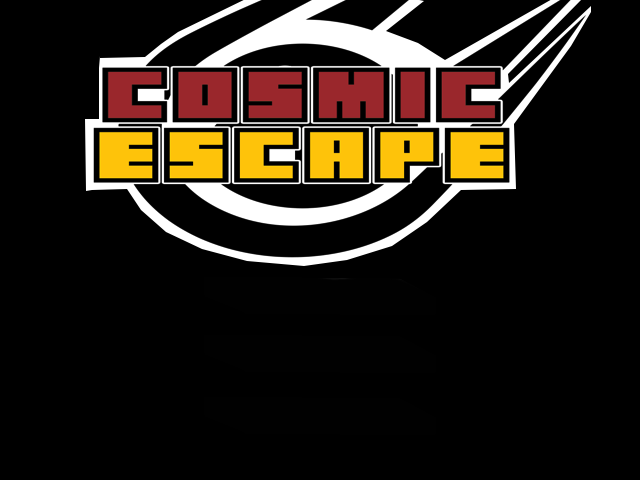
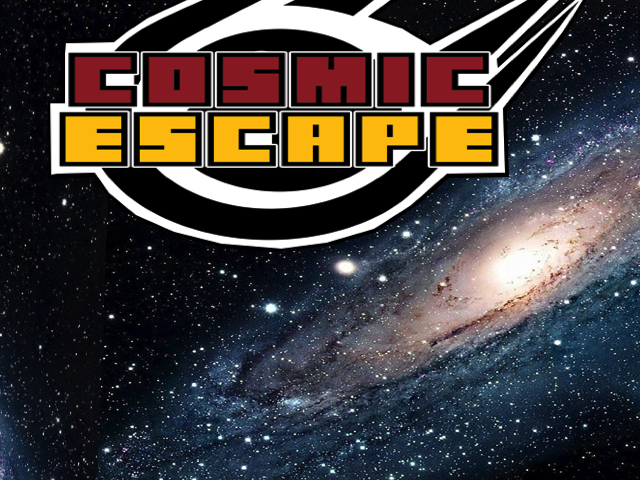
new spritesheet

diff --git a/Scripts/Core/game.js b/Scripts/Core/game.js
@@ -16,7 +16,9 @@ var core;
         { id: "galaxy", src: "../../Assets/images/galaxy.png" },
         { id: "sheet", src: "../../Assets/images/spritesheet1.png" },
         { id: "mainPage", src: "../../Assets/images/mainMenu.png" },
-        { id: "gameOver", src: "../../Assets/images/gameOver.png" }
+        { id: "gameOver", src: "../../Assets/images/gameOver.png" },
+        { id: "enemy", src: "../../Assets/images/enemy.png" },
+        { id: "bullet", src: "../../Assets/images/bullet.png" }
     ];
     function preload() {
         core.assets = new createjs.LoadQueue();
@@ -29,31 +31,30 @@ var core;
         createjs.Ticker.framerate = 60;
         createjs.Ticker.on("tick", gameLoop);
         var atlasData = {
-            "images": [core.assets.getResult("sheet")],
+            "images": [
+                core.assets.getResult("sheet")
+            ],
             "frames": [
-                [1, 1, 370, 42, 0, -147, -259],
-                [373, 1, 70, 127, 0, -70, -3],
-                [1, 45, 367, 52, 0, -127, -162],
-                [1, 99, 362, 50, 0, -129, -124],
-                [1, 151, 70, 67, 0, 0, -73],
-                [73, 151, 70, 67, 0, -70, -73],
-                [365, 130, 70, 68, 0, 0, -3],
-                [145, 200, 11, 14, 0, -10, -6],
-                [158, 200, 9, 10, 0, -11, -40],
-                [145, 151, 13, 22, 0, -11, -4],
-                [145, 175, 19, 19, 0, -7, -3],
-                [160, 151, 19, 19, 0, -39, -3],
-                [166, 172, 19, 19, 0, -7, -35],
-                [181, 151, 19, 19, 0, -39, -35]
+                [1, 1, 145, 150, 0, 70, 75],
+                [1, 153, 80, 99, 0, 40, 50],
+                [83, 153, 78, 99, 0, 38, 50],
+                [148, 1, 142, 150, 0, 67, 75],
+                [163, 153, 78, 99, 0, 38, 50],
+                [243, 153, 150, 78, 0, 75, 44],
+                [292, 1, 150, 78, 0, 75, 44],
+                [292, 81, 250, 34, 0, 125, 35],
+                [444, 1, 150, 78, 0, 75, 44],
+                [292, 117, 250, 34, 0, 125, 35],
+                [395, 153, 250, 34, 0, 125, 35],
+                [395, 189, 250, 34, 0, 125, 35]
             ],
             "animations": {
-                "mainButton": [0],
-                "playButton": [2],
-                "backButton": [3],
-                "playerA": { "frames": [6 /*,1,4,5 */], "speed": 0.5 },
-                "star1": [7, 8],
-                "bullet": [9],
-                "asteroidA": { "frames": [10 /*,11,12,13*/], "speed": 0.3 }
+                "asteroid": [1],
+                "player": [5],
+                "againButton": [7],
+                "backButton": [9],
+                "menuButton": [10],
+                "playButton": [11]
             }
         };
         core.textureAtlas = new createjs.SpriteSheet(atlasData);

diff --git a/Scripts/Core/game.ts b/Scripts/Core/game.ts
@@ -25,7 +25,10 @@ let play: scenes.Play;
 { id: "galaxy", src: "../../Assets/images/galaxy.png"},       
 { id: "sheet", src: "../../Assets/images/spritesheet1.png"},
 { id: "mainPage", src: "../../Assets/images/mainMenu.png"},
-{ id: "gameOver", src: "../../Assets/images/gameOver.png"}
+{ id: "gameOver", src: "../../Assets/images/gameOver.png"},
+{ id: "enemy", src: "../../Assets/images/enemy.png"},
+{ id: "bullet", src: "../../Assets/images/bullet.png"}
+
     ];
 
  function preload():void{
@@ -42,35 +45,34 @@ createjs.Ticker.on("tick", gameLoop);
 
 
  let atlasData = {  
-"images": [ assets.getResult("sheet") ],
+"images": [
+   assets.getResult("sheet")
+],
+
 "frames": [
-    [1, 1, 370, 42, 0, -147, -259],
-    [373, 1, 70, 127, 0, -70, -3],
-    [1, 45, 367, 52, 0, -127, -162],
-    [1, 99, 362, 50, 0, -129, -124],
-    [1, 151, 70, 67, 0, 0, -73],
-    [73, 151, 70, 67, 0, -70, -73],
-    [365, 130, 70, 68, 0, 0, -3],
-    [145, 200, 11, 14, 0, -10, -6],
-    [158, 200, 9, 10, 0, -11, -40],
-    [145, 151, 13, 22, 0, -11, -4],
-    [145, 175, 19, 19, 0, -7, -3],
-    [160, 151, 19, 19, 0, -39, -3],
-    [166, 172, 19, 19, 0, -7, -35],
-    [181, 151, 19, 19, 0, -39, -35]
+    [1, 1, 145, 150, 0, 70, 75],
+    [1, 153, 80, 99, 0, 40, 50],
+    [83, 153, 78, 99, 0, 38, 50],
+    [148, 1, 142, 150, 0, 67, 75],
+    [163, 153, 78, 99, 0, 38, 50],
+    [243, 153, 150, 78, 0, 75, 44],
+    [292, 1, 150, 78, 0, 75, 44],
+    [292, 81, 250, 34, 0, 125, 35],
+    [444, 1, 150, 78, 0, 75, 44],
+    [292, 117, 250, 34, 0, 125, 35],
+    [395, 153, 250, 34, 0, 125, 35],
+    [395, 189, 250, 34, 0, 125, 35]
 ],
 
 "animations": {
-    "mainButton": [0] ,
-    "playButton": [2] ,
-    "backButton": [3] ,
-    "playerA": { "frames": [6/*,1,4,5 */], "speed": 0.5 },
-    "star1": [7,8],
-    "bullet": [9],
-    "asteroidA": { "frames": [10/*,11,12,13*/],  "speed": 0.3 }
     
-}
-  };
+    "asteroid":  [1],
+    "player": [5],
+    "againButton": [7],
+    "backButton": [9],
+    "menuButton": [10],
+    "playButton": [11] 
+}};
 
 textureAtlas = new createjs.SpriteSheet(atlasData);
 scene = config.Scene.MENU;

diff --git a/Scripts/scenes/play.js b/Scripts/scenes/play.js
@@ -30,16 +30,17 @@ var scenes;
             //enemy object
             this._enemyBullet = new objects.EnemyBullet("bullet");
             this.addChild(this._enemyBullet);
+            this._enemyShip = new objects.EnemyShip("enemy");
+            this.addChild(this._enemyShip);
+            //PLAYER
+            this._player = new objects.Player("player");
+            this.addChild(this._player);
             this._bullet = new objects.Bullet("bullet");
             this.addChild(this._bullet);
-            this._enemyShip = new objects.EnemyShip("playerA");
-            this.addChild(this._enemyShip);
-            this._player = new objects.Player("playerA");
-            this.addChild(this._player);
             //asteroid array
             this._asteroid = new Array();
             for (var count = 0; count < 3; count++) {
-                this._asteroid.push(new objects.Asteroid("asteroidA"));
+                this._asteroid.push(new objects.Asteroid("asteroid"));
                 this.addChild(this._asteroid[count]);
             }
             this._collision = new managers.Collision();
@@ -68,8 +69,6 @@ var scenes;
             this._player.update();
             this._bullet.giveData(this.SX, this.SY, this._player.x, this._player.y);
             this._bullet.update();
-            //this._asteroid.giveData(this._player.x, this._player.y);
-            //this._asteroid.update();
             this._enemyShip.giveData(this._player.x, this._player.y);
             this._enemyShip.update();
             this._enemyBullet.giveData(this._player.x, this._player.y, this._enemyShip.x, this._enemyShip.y, this._enemyShip.inRange);
@@ -80,7 +79,6 @@ var scenes;
             this._asteroid.forEach(function (asteroid) {
                 asteroid.update();
                 _this._collision.check(_this._player, asteroid);
-                // this._collision.playe(this._player, asteroid);
             });
             this._updateScoreBoard();
             if (core.lives < 1) {

diff --git a/Scripts/scenes/play.ts b/Scripts/scenes/play.ts
@@ -35,20 +35,24 @@ public Start ():void {
 this._galaxy = new objects.Galaxy("galaxy");
 this.addChild(this._galaxy);
 
+
 //enemy object
 this._enemyBullet = new objects.EnemyBullet("bullet");
 this.addChild(this._enemyBullet);
+this._enemyShip = new objects.EnemyShip("enemy");
+this.addChild(this._enemyShip);
+
+
+//PLAYER
+this._player = new objects.Player("player");
+this.addChild(this._player);
 this._bullet = new objects.Bullet("bullet");
 this.addChild(this._bullet);
-this._enemyShip = new objects.EnemyShip("playerA");
-this.addChild(this._enemyShip);
-this._player = new objects.Player("playerA");
-this.addChild(this._player);
 
 //asteroid array
 this._asteroid = new Array<objects.Asteroid>();
 for (let count = 0; count <3; count++){
-this._asteroid.push(new objects.Asteroid("asteroidA"));
+this._asteroid.push(new objects.Asteroid("asteroid"));
 this.addChild(this._asteroid[count]);
 }
 
@@ -84,8 +88,6 @@ public Update(): void {
     this._player.update();
     this._bullet.giveData(this.SX, this.SY, this._player.x, this._player.y);
     this._bullet.update();
-    //this._asteroid.giveData(this._player.x, this._player.y);
-    //this._asteroid.update();
     this._enemyShip.giveData(this._player.x, this._player.y);
     this._enemyShip.update();
     this._enemyBullet.giveData(this._player.x, this._player.y, this._enemyShip.x, this._enemyShip.y, this._enemyShip.inRange);
@@ -99,7 +101,6 @@ this._collision.check(this._player,this._enemyBullet);
 this._asteroid.forEach(asteroid => {
     asteroid.update();
     this._collision.check(this._player, asteroid);
-   // this._collision.playe(this._player, asteroid);
 });
 
 this._updateScoreBoard();

diff --git a/Scripts/scenes/over.js b/Scripts/scenes/over.js
@@ -21,12 +21,12 @@ var scenes;
             this._backgr = new objects.Background("gameOver");
             this.addChild(this._backgr);
             //add Main Menu button
-            this._mainMenu = new objects.Button("mainButton", 155, 200, true);
+            this._mainMenu = new objects.Button("menuButton", 390, 350, true);
             this.addChild(this._mainMenu);
             //mainMenu button event listener
             this._mainMenu.on("click", this._mainMenuClick, this);
             //add Play again Button
-            this._playAgain = new objects.Button("playButton", 155, 150, true);
+            this._playAgain = new objects.Button("againButton", 390, 450, true);
             this.addChild(this._playAgain);
             //mainMenu button event listener
             this._playAgain.on("click", this._playAgainClick, this);

diff --git a/Scripts/scenes/over.ts b/Scripts/scenes/over.ts
@@ -17,13 +17,13 @@ this._backgr = new objects.Background("gameOver");
 this.addChild(this._backgr);
 
 //add Main Menu button
-this._mainMenu = new objects.Button("mainButton",155,200, true);
+this._mainMenu = new objects.Button("menuButton",390,350, true);
 this.addChild(this._mainMenu);
 //mainMenu button event listener
 this._mainMenu.on("click",this._mainMenuClick,this);
 
 //add Play again Button
-this._playAgain = new objects.Button("playButton",155,150, true);
+this._playAgain = new objects.Button("againButton",390,450, true);
 this.addChild(this._playAgain);
 //mainMenu button event listener
 this._playAgain.on("click",this._playAgainClick,this);

diff --git a/Scripts/scenes/mainMenu.js b/Scripts/scenes/mainMenu.js
@@ -21,7 +21,7 @@ var scenes;
             this._backgr = new objects.Background("mainPage");
             this.addChild(this._backgr);
             //add button
-            this._startButton = new objects.Button("playButton", 155, 150, true);
+            this._startButton = new objects.Button("playButton", 390, 350, true);
             this.addChild(this._startButton);
             //startbutton event listener
             this._startButton.on("click", this._startButtonClick, this);

diff --git a/Scripts/scenes/mainMenu.ts b/Scripts/scenes/mainMenu.ts
@@ -16,7 +16,7 @@ this._backgr = new objects.Background("mainPage");
 this.addChild(this._backgr);
 
 //add button
-this._startButton = new objects.Button("playButton",155,150, true);
+this._startButton = new objects.Button("playButton",390,350, true);
 this.addChild(this._startButton);
 //startbutton event listener
 this._startButton.on("click",this._startButtonClick,this);
